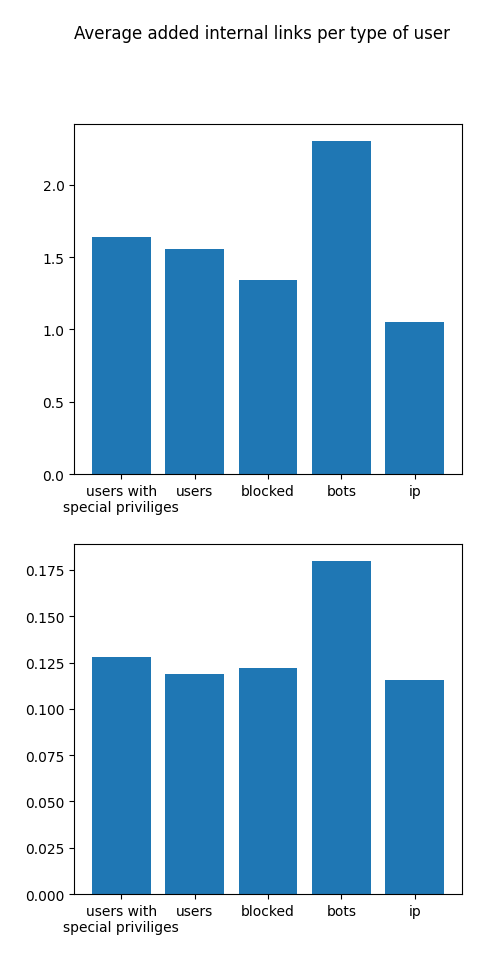
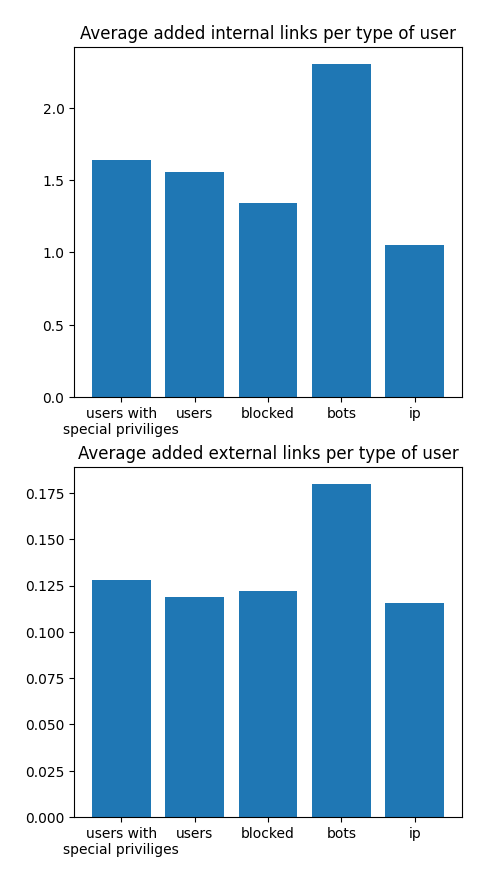
add titles

diff --git a/nsdb/plot.py b/nsdb/plot.py
@@ -1383,9 +1383,10 @@ def internalExternalLinks(cursor, i, plotDir, dataDir, dryrun):
 
     fig, axs = plt.subplots(2, 1)
 
-    fig.suptitle("Average added internal links per type of user")
     axs[0].bar(*zip(*internalData))
+    axs[0].set_title("Average added internal links per type of user")
     axs[1].bar(*zip(*externalData))
+    axs[1].set_title("Average added external links per type of user")
     plt.gcf().set_size_inches(5, 10)
 
     plt.savefig(figname, bbox_inches="tight", pad_inches=0.25)
